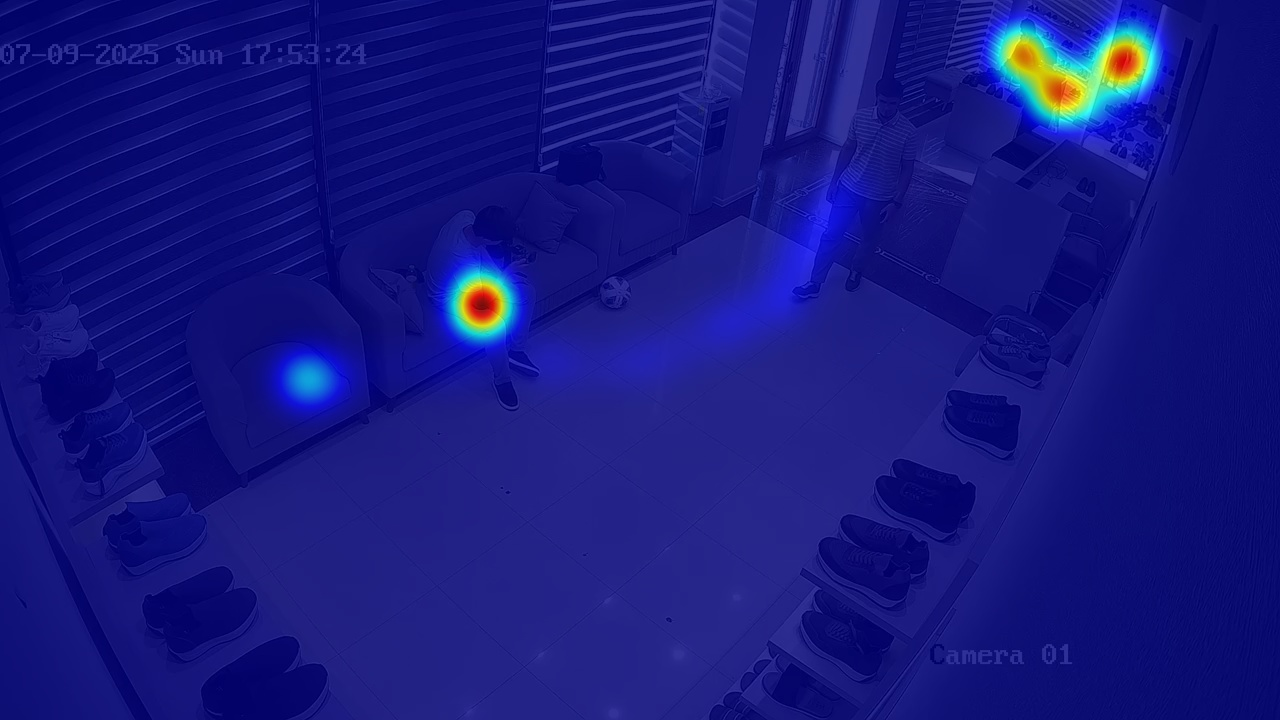
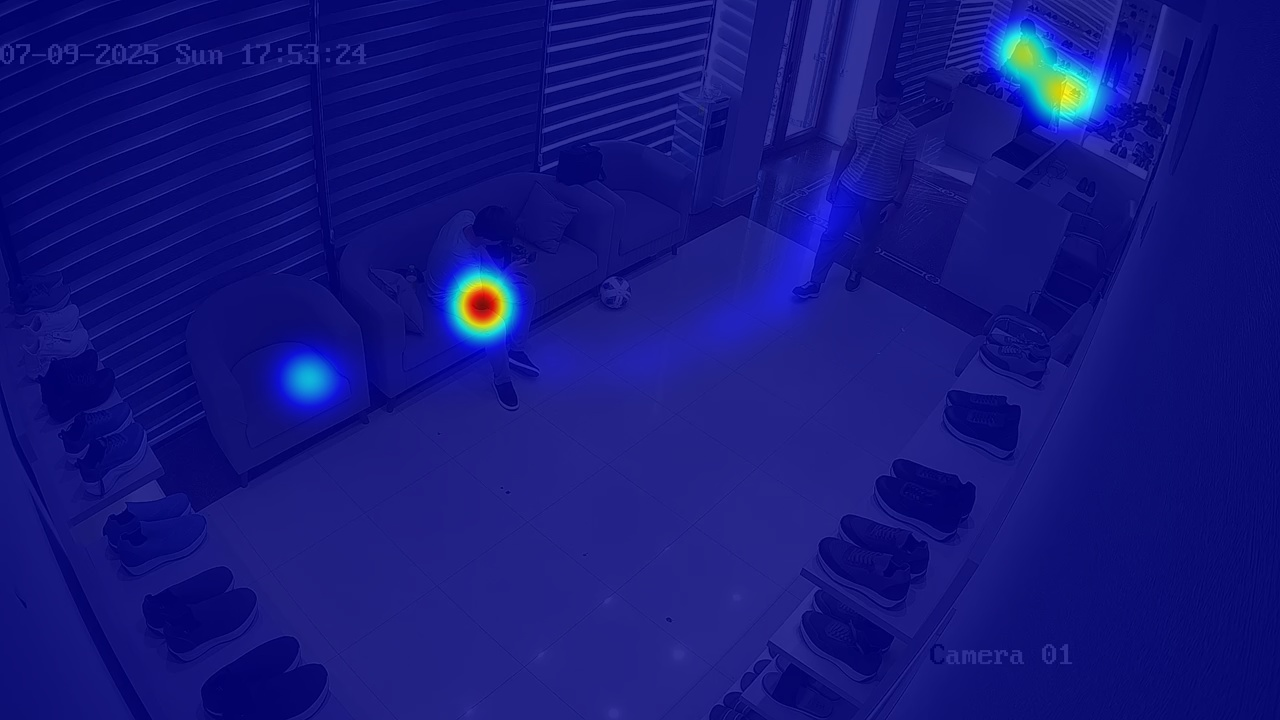
odamlarni erkak ayol va bolaga ajratish

Changed region(s): [[0.75, 0.0, 0.9375, 0.2444]]

diff --git a/ikkinchi_demo.py b/ikkinchi_demo.py
@@ -1,3 +1,195 @@
+# import cv2
+# import torch
+# import numpy as np
+# import supervision as sv
+# from retinaface import RetinaFace
+# import sys
+# sys.path.append("GroundingDINO")
+# from groundingdino.util.inference import Model
+# from sklearn.cluster import KMeans
+# from scipy.ndimage import gaussian_filter
+
+# # =================================================================================
+# # O'ZBEK TILI UCHUN MATNLAR
+# # =================================================================================
+# UZBEK_TEXT = {
+#     "loading_model": "Asosiy model yuklanmoqda...",
+#     "model_loaded": "Model muvaffaqiyatli yuklandi.",
+#     "video_not_found": "Xatolik: 'test.mp4' video fayli topilmadi.",
+#     "processing_frame": "Kadr {} ishlanmoqda...",
+#     "detected_people": "Aniqlangan odamlar soni: {}",
+#     "detected_shoes": "Aniqlangan poyabzallar soni: {}",
+#     "density": "Zichlik: {:.2f} kishi/metr kvadrat",
+#     "crowding_level": "Tirbandlik darajasi: {}",
+#     "low": "Past", "medium": "O'rtacha", "high": "Yuqori",
+#     "alert": "DIQQAT: '{}' hududida tirbandlik yuqori!",
+#     "heatmap_saved": "Faollik xaritasi 'heatmap.jpg' fayliga saqlandi.",
+#     "colors": {
+#         "qizil": ([0, 120, 70], [10, 255, 255]), "yashil": ([36, 100, 100], [86, 255, 255]),
+#         "ko'k": ([94, 80, 2], [126, 255, 255]), "qora": ([0, 0, 0], [180, 255, 30]),
+#         "oq": ([0, 0, 200], [180, 20, 255]), "kulrang": ([0, 0, 40], [180, 20, 200])
+#     }
+# }
+
+# # =================================================================================
+# # SOZLAMALAR
+# # =================================================================================
+# GROUNDING_DINO_CONFIG_PATH = "/home/bekhzod/Desktop/VideoDetection/GroundingDINO/groundingdino/config/GroundingDINO_SwinT_OGC.py"
+# GROUNDING_DINO_CHECKPOINT_PATH = "/home/bekhzod/Desktop/VideoDetection/GroundingDINO/weights/groundingdino_swint_ogc.pth"
+# CLASSES = ["person", "shoes"]
+# BOX_TRESHOLD = 0.35
+# TEXT_TRESHOLD = 0.25
+# STORE_AREA_SQ_METERS = 50.0
+# DENSITY_THRESHOLDS = {"high": 0.5, "medium": 0.2}
+# HIGH_DENSITY_ALERT_ZONE = (100, 200, 600, 500)
+# PIXELATION_FACTOR = 30 
+
+# # =================================================================================
+# # YORDAMCHI FUNKSIYALAR
+# # =================================================================================
+# def load_g_dino_model():
+#     print(UZBEK_TEXT["loading_model"])
+#     g_dino_model = Model(model_config_path=GROUNDING_DINO_CONFIG_PATH, model_checkpoint_path=GROUNDING_DINO_CHECKPOINT_PATH)
+#     print(UZBEK_TEXT["model_loaded"])
+#     return g_dino_model
+
+# def get_dominant_color(image, k=3):
+#     if image.size == 0: return ""
+#     pixels = image.reshape(-1, 3)
+#     pixels = np.float32(pixels)
+#     criteria = (cv2.TERM_CRITERIA_EPS + cv2.TERM_CRITERIA_MAX_ITER, 10, 1.0)
+#     _, labels, centers = cv2.kmeans(pixels, k, None, criteria, 10, cv2.KMEANS_RANDOM_CENTERS)
+#     _, counts = np.unique(labels, return_counts=True)
+#     dominant_color_bgr = centers[np.argmax(counts)]
+#     dominant_color_hsv = cv2.cvtColor(np.uint8([[dominant_color_bgr]]), cv2.COLOR_BGR2HSV)[0][0]
+
+#     min_dist, closest_color_name = float('inf'), ""
+#     for color_name, (lower, upper) in UZBEK_TEXT["colors"].items():
+#         # *** XATO TO'G'RILANGAN QATOR ***
+#         dist = min(abs(dominant_color_hsv[0] - lower[0]), abs(dominant_color_hsv[0] - upper[0]))
+#         if dist < min_dist:
+#             min_dist, closest_color_name = dist, color_name
+    
+#     if dominant_color_hsv[2] > 200 and dominant_color_hsv[1] < 25: return "oq"
+#     if dominant_color_hsv[2] < 40: return "qora"
+#     return closest_color_name if min_dist < 40 else ""
+
+
+# def create_heatmap(background_image, points):
+#     height, width, _ = background_image.shape
+#     density_map = np.zeros((height, width), dtype=np.float32)
+#     for x, y in points:
+#         if 0 <= y < height and 0 <= x < width:
+#             density_map[y, x] += 1
+#     density_map = gaussian_filter(density_map, sigma=20)
+#     if np.max(density_map) > 0:
+#         density_map = (density_map / np.max(density_map) * 255)
+#     heatmap_color = cv2.applyColorMap(density_map.astype(np.uint8), cv2.COLORMAP_JET)
+#     superimposed_img = cv2.addWeighted(background_image, 0.2, heatmap_color, 0.8, 0)
+#     cv2.imwrite("heatmap.jpg", superimposed_img)
+
+# def pixelate_face(face_roi):
+#     (h, w) = face_roi.shape[:2]
+#     w_px, h_px = max(1, w // PIXELATION_FACTOR), max(1, h // PIXELATION_FACTOR)
+#     temp = cv2.resize(face_roi, (w_px, h_px), interpolation=cv2.INTER_LINEAR)
+#     return cv2.resize(temp, (w, h), interpolation=cv2.INTER_NEAREST)
+
+# # =================================================================================
+# # ASOSIY FUNKSIYA
+# # =================================================================================
+# def main():
+#     g_dino_model = load_g_dino_model()
+#     cap = cv2.VideoCapture("test.mp4")
+#     if not cap.isOpened():
+#         print(UZBEK_TEXT["video_not_found"])
+#         return
+        
+#     box_annotator = sv.BoxAnnotator()
+#     label_annotator = sv.LabelAnnotator()
+#     heatmap_points = []
+    
+#     frame_count = 0
+#     while True:
+#         ret, frame = cap.read()
+#         if not ret: break
+#         frame_count += 1
+#         print(UZBEK_TEXT["processing_frame"].format(frame_count), end='\r')
+
+#         detections = g_dino_model.predict_with_classes(
+#             image=frame, classes=CLASSES, box_threshold=BOX_TRESHOLD, text_threshold=TEXT_TRESHOLD
+#         )
+
+#         enhanced_labels = []
+#         for bbox, class_id in zip(detections.xyxy, detections.class_id):
+#             x1, y1, x2, y2 = map(int, bbox)
+#             cropped_image = frame[y1:y2, x1:x2]
+#             color_name = get_dominant_color(cropped_image)
+#             current_class_name = "odam" if CLASSES[class_id] == "person" else "poyabzal"
+#             new_label = f"{current_class_name} ({color_name})" if color_name else current_class_name
+#             enhanced_labels.append(new_label)
+
+#         annotated_frame = box_annotator.annotate(scene=frame.copy(), detections=detections)
+#         annotated_frame = label_annotator.annotate(scene=annotated_frame, detections=detections, labels=enhanced_labels)
+        
+#         try:
+#             faces = RetinaFace.detect_faces(annotated_frame)
+#             if isinstance(faces, dict):
+#                 for face_key in faces.keys():
+#                     face_data = faces[face_key]
+#                     x1, y1, x2, y2 = face_data['facial_area']
+#                     face_roi = annotated_frame[y1:y2, x1:x2]
+#                     if face_roi.size > 0:
+#                         pixelated_face = pixelate_face(face_roi)
+#                         annotated_frame[y1:y2, x1:x2] = pixelated_face
+#         except Exception as e:
+#             pass
+        
+#         people_count = sum(1 for cid in detections.class_id if CLASSES[cid] == "person")
+#         shoes_count = sum(1 for cid in detections.class_id if CLASSES[cid] == "shoes")
+#         density = people_count / STORE_AREA_SQ_METERS
+
+#         crowding_level = UZBEK_TEXT["low"]
+#         if density >= DENSITY_THRESHOLDS["high"]: crowding_level = UZBEK_TEXT["high"]
+#         elif density >= DENSITY_THRESHOLDS["medium"]: crowding_level = UZBEK_TEXT["medium"]
+
+#         rang = (0, 255, 0)
+#         cv2.putText(annotated_frame, UZBEK_TEXT["detected_people"].format(people_count), (10, 30), cv2.FONT_HERSHEY_SIMPLEX, 1, rang , 2, cv2.LINE_AA)
+#         cv2.putText(annotated_frame, UZBEK_TEXT["detected_shoes"].format(shoes_count), (10, 70), cv2.FONT_HERSHEY_SIMPLEX, 1, rang, 2, cv2.LINE_AA)
+#         cv2.putText(annotated_frame, UZBEK_TEXT["density"].format(density), (10, 110), cv2.FONT_HERSHEY_SIMPLEX, 1, rang, 2, cv2.LINE_AA)
+#         cv2.putText(annotated_frame, UZBEK_TEXT["crowding_level"].format(crowding_level), (10, 150), cv2.FONT_HERSHEY_SIMPLEX, 1, rang, 2, cv2.LINE_AA)
+        
+#         zx1, zy1, zx2, zy2 = HIGH_DENSITY_ALERT_ZONE
+#         cv2.rectangle(annotated_frame, (zx1, zy1), (zx2, zy2), (0, 0, 255), 2)
+#         zone_people = 0
+        
+#         for i, (detection, class_id) in enumerate(zip(detections.xyxy, detections.class_id)):
+#             if CLASSES[class_id] == "person":
+#                 center_x, center_y = (detection[0] + detection[2]) / 2, (detection[1] + detection[3]) / 2
+#                 heatmap_points.append((int(center_x), int(center_y)))
+#                 if zx1 < center_x < zx2 and zy1 < center_y < zy2: zone_people += 1
+        
+#         zone_area = ((zx2 - zx1) * (zy2 - zy1)) / (frame.shape[1] * frame.shape[0]) * STORE_AREA_SQ_METERS
+#         zone_density = zone_people / zone_area if zone_area > 0 else 0
+#         if zone_density >= DENSITY_THRESHOLDS["high"]:
+#             alert_text = UZBEK_TEXT["alert"].format("Asosiy")
+#             cv2.putText(annotated_frame, alert_text, (zx1, zy1 - 10), cv2.FONT_HERSHEY_SIMPLEX, 0.8, (0, 0, 255), 2, cv2.LINE_AA)
+        
+#         cv2.imshow("High-Accuracy Privacy Demo", annotated_frame)
+#         if cv2.waitKey(1) & 0xFF == ord('q'): break
+
+#     cap.release()
+#     cv2.destroyAllWindows()
+    
+#     cap = cv2.VideoCapture("test.mp4")
+#     ret, first_frame = cap.read()
+#     if ret:
+#         create_heatmap(first_frame, heatmap_points)
+#         print(f"\n{UZBEK_TEXT['heatmap_saved']}")
+#     cap.release()
+
+# if __name__ == "__main__":
+#     main()
+
 import cv2
 import torch
 import numpy as np
@@ -10,16 +202,19 @@ from sklearn.cluster import KMeans
 from scipy.ndimage import gaussian_filter
 
 # =================================================================================
-# O'ZBEK TILI UCHUN MATNLAR
+# O'ZBEK TILI UCHUN MATNLAR (YANGILANGAN)
 # =================================================================================
 UZBEK_TEXT = {
     "loading_model": "Asosiy model yuklanmoqda...",
     "model_loaded": "Model muvaffaqiyatli yuklandi.",
     "video_not_found": "Xatolik: 'test.mp4' video fayli topilmadi.",
     "processing_frame": "Kadr {} ishlanmoqda...",
-    "detected_people": "Aniqlangan odamlar soni: {}",
-    "detected_shoes": "Aniqlangan poyabzallar soni: {}",
-    "density": "Zichlik: {:.2f} kishi/metr kvadrat",
+    "detected_total_people": "Jami odamlar: {}", # Yangi
+    "detected_men": "Erkaklar: {}", # Yangi
+    "detected_women": "Ayollar: {}", # Yangi
+    "detected_kids": "Bolalar: {}", # Yangi
+    "detected_shoes": "Poyabzallar: {}",
+    "density": "Zichlik: {:.2f} kishi/m²",
     "crowding_level": "Tirbandlik darajasi: {}",
     "low": "Past", "medium": "O'rtacha", "high": "Yuqori",
     "alert": "DIQQAT: '{}' hududida tirbandlik yuqori!",
@@ -28,15 +223,23 @@ UZBEK_TEXT = {
         "qizil": ([0, 120, 70], [10, 255, 255]), "yashil": ([36, 100, 100], [86, 255, 255]),
         "ko'k": ([94, 80, 2], [126, 255, 255]), "qora": ([0, 0, 0], [180, 255, 30]),
         "oq": ([0, 0, 200], [180, 20, 255]), "kulrang": ([0, 0, 40], [180, 20, 200])
+    },
+    # O'zbekcha klass nomlari
+    "class_names": {
+        "man": "erkak",
+        "woman": "ayol",
+        "kid": "bola",
+        "shoes": "poyabzal"
     }
 }
 
 # =================================================================================
-# SOZLAMALAR
+# SOZLAMALAR (YANGILANGAN)
 # =================================================================================
 GROUNDING_DINO_CONFIG_PATH = "/home/bekhzod/Desktop/VideoDetection/GroundingDINO/groundingdino/config/GroundingDINO_SwinT_OGC.py"
 GROUNDING_DINO_CHECKPOINT_PATH = "/home/bekhzod/Desktop/VideoDetection/GroundingDINO/weights/groundingdino_swint_ogc.pth"
-CLASSES = ["person", "shoes"]
+# *** KLASSLAR RO'YXATI YANGILANDI ***
+CLASSES = ["man", "woman", "kid", "shoes"]
 BOX_TRESHOLD = 0.35
 TEXT_TRESHOLD = 0.25
 STORE_AREA_SQ_METERS = 50.0
@@ -45,37 +248,34 @@ HIGH_DENSITY_ALERT_ZONE = (100, 200, 600, 500)
 PIXELATION_FACTOR = 30 
 
 # =================================================================================
-# YORDAMCHI FUNKSIYALAR
+# YORDAMCHI FUNKSIYALAR (O'zgarishsiz)
 # =================================================================================
 def load_g_dino_model():
+    # ... (o'zgarishsiz)
     print(UZBEK_TEXT["loading_model"])
     g_dino_model = Model(model_config_path=GROUNDING_DINO_CONFIG_PATH, model_checkpoint_path=GROUNDING_DINO_CHECKPOINT_PATH)
     print(UZBEK_TEXT["model_loaded"])
     return g_dino_model
 
 def get_dominant_color(image, k=3):
+    # ... (o'zgarishsiz)
     if image.size == 0: return ""
-    pixels = image.reshape(-1, 3)
-    pixels = np.float32(pixels)
+    pixels = image.reshape(-1, 3); pixels = np.float32(pixels)
     criteria = (cv2.TERM_CRITERIA_EPS + cv2.TERM_CRITERIA_MAX_ITER, 10, 1.0)
     _, labels, centers = cv2.kmeans(pixels, k, None, criteria, 10, cv2.KMEANS_RANDOM_CENTERS)
     _, counts = np.unique(labels, return_counts=True)
     dominant_color_bgr = centers[np.argmax(counts)]
     dominant_color_hsv = cv2.cvtColor(np.uint8([[dominant_color_bgr]]), cv2.COLOR_BGR2HSV)[0][0]
-
     min_dist, closest_color_name = float('inf'), ""
     for color_name, (lower, upper) in UZBEK_TEXT["colors"].items():
-        # *** XATO TO'G'RILANGAN QATOR ***
         dist = min(abs(dominant_color_hsv[0] - lower[0]), abs(dominant_color_hsv[0] - upper[0]))
-        if dist < min_dist:
-            min_dist, closest_color_name = dist, color_name
-    
+        if dist < min_dist: min_dist, closest_color_name = dist, color_name
     if dominant_color_hsv[2] > 200 and dominant_color_hsv[1] < 25: return "oq"
     if dominant_color_hsv[2] < 40: return "qora"
     return closest_color_name if min_dist < 40 else ""
 
-
 def create_heatmap(background_image, points):
+    # ... (o'zgarishsiz)
     height, width, _ = background_image.shape
     density_map = np.zeros((height, width), dtype=np.float32)
     for x, y in points:
@@ -89,13 +289,14 @@ def create_heatmap(background_image, points):
     cv2.imwrite("heatmap.jpg", superimposed_img)
 
 def pixelate_face(face_roi):
+    # ... (o'zgarishsiz)
     (h, w) = face_roi.shape[:2]
     w_px, h_px = max(1, w // PIXELATION_FACTOR), max(1, h // PIXELATION_FACTOR)
     temp = cv2.resize(face_roi, (w_px, h_px), interpolation=cv2.INTER_LINEAR)
     return cv2.resize(temp, (w, h), interpolation=cv2.INTER_NEAREST)
 
 # =================================================================================
-# ASOSIY FUNKSIYA
+# ASOSIY FUNKSIYA (YANGILANGAN MANTIQ BILAN)
 # =================================================================================
 def main():
     g_dino_model = load_g_dino_model()
@@ -124,8 +325,12 @@ def main():
             x1, y1, x2, y2 = map(int, bbox)
             cropped_image = frame[y1:y2, x1:x2]
             color_name = get_dominant_color(cropped_image)
-            current_class_name = "odam" if CLASSES[class_id] == "person" else "poyabzal"
-            new_label = f"{current_class_name} ({color_name})" if color_name else current_class_name
+            
+            # Joriy klass nomini va uning o'zbekcha tarjimasini olish
+            current_class_name_en = CLASSES[class_id]
+            current_class_name_uz = UZBEK_TEXT["class_names"].get(current_class_name_en, current_class_name_en)
+            
+            new_label = f"{current_class_name_uz} ({color_name})" if color_name else current_class_name_uz
             enhanced_labels.append(new_label)
 
         annotated_frame = box_annotator.annotate(scene=frame.copy(), detections=detections)
@@ -144,26 +349,43 @@ def main():
         except Exception as e:
             pass
         
-        people_count = sum(1 for cid in detections.class_id if CLASSES[cid] == "person")
+        # *** STATISTIKA HISOBLASH MANTIG'I YANGILANDI ***
+        men_count = sum(1 for cid in detections.class_id if CLASSES[cid] == "man")
+        women_count = sum(1 for cid in detections.class_id if CLASSES[cid] == "woman")
+        kids_count = sum(1 for cid in detections.class_id if CLASSES[cid] == "kid")
         shoes_count = sum(1 for cid in detections.class_id if CLASSES[cid] == "shoes")
-        density = people_count / STORE_AREA_SQ_METERS
+        total_people_count = men_count + women_count + kids_count
+        density = total_people_count / STORE_AREA_SQ_METERS
 
         crowding_level = UZBEK_TEXT["low"]
         if density >= DENSITY_THRESHOLDS["high"]: crowding_level = UZBEK_TEXT["high"]
         elif density >= DENSITY_THRESHOLDS["medium"]: crowding_level = UZBEK_TEXT["medium"]
 
-        rang = (0, 255, 0)
-        cv2.putText(annotated_frame, UZBEK_TEXT["detected_people"].format(people_count), (10, 30), cv2.FONT_HERSHEY_SIMPLEX, 1, rang , 2, cv2.LINE_AA)
-        cv2.putText(annotated_frame, UZBEK_TEXT["detected_shoes"].format(shoes_count), (10, 70), cv2.FONT_HERSHEY_SIMPLEX, 1, rang, 2, cv2.LINE_AA)
-        cv2.putText(annotated_frame, UZBEK_TEXT["density"].format(density), (10, 110), cv2.FONT_HERSHEY_SIMPLEX, 1, rang, 2, cv2.LINE_AA)
-        cv2.putText(annotated_frame, UZBEK_TEXT["crowding_level"].format(crowding_level), (10, 150), cv2.FONT_HERSHEY_SIMPLEX, 1, rang, 2, cv2.LINE_AA)
+        # *** STATISTIKANI EKRANGA CHIQARISH YANGILANDI ***
+        y_pos = 30
+        stats = {
+            "detected_total_people": total_people_count,
+            "detected_men": men_count,
+            "detected_women": women_count,
+            "detected_kids": kids_count,
+            "detected_shoes": shoes_count,
+            "density": density,
+            "crowding_level": crowding_level
+        }
+        
+        for key, value in stats.items():
+            text = UZBEK_TEXT[key].format(value)
+            cv2.putText(annotated_frame, text, (10, y_pos), cv2.FONT_HERSHEY_SIMPLEX, 0.8, (0, 255, 0) , 2, cv2.LINE_AA)
+            y_pos += 40
         
         zx1, zy1, zx2, zy2 = HIGH_DENSITY_ALERT_ZONE
         cv2.rectangle(annotated_frame, (zx1, zy1), (zx2, zy2), (0, 0, 255), 2)
         zone_people = 0
         
+        # *** HEATMAP UCHUN NUQTA YIG'ISH YANGILANDI ***
+        people_classes = {"man", "woman", "kid"}
         for i, (detection, class_id) in enumerate(zip(detections.xyxy, detections.class_id)):
-            if CLASSES[class_id] == "person":
+            if CLASSES[class_id] in people_classes:
                 center_x, center_y = (detection[0] + detection[2]) / 2, (detection[1] + detection[3]) / 2
                 heatmap_points.append((int(center_x), int(center_y)))
                 if zx1 < center_x < zx2 and zy1 < center_y < zy2: zone_people += 1
